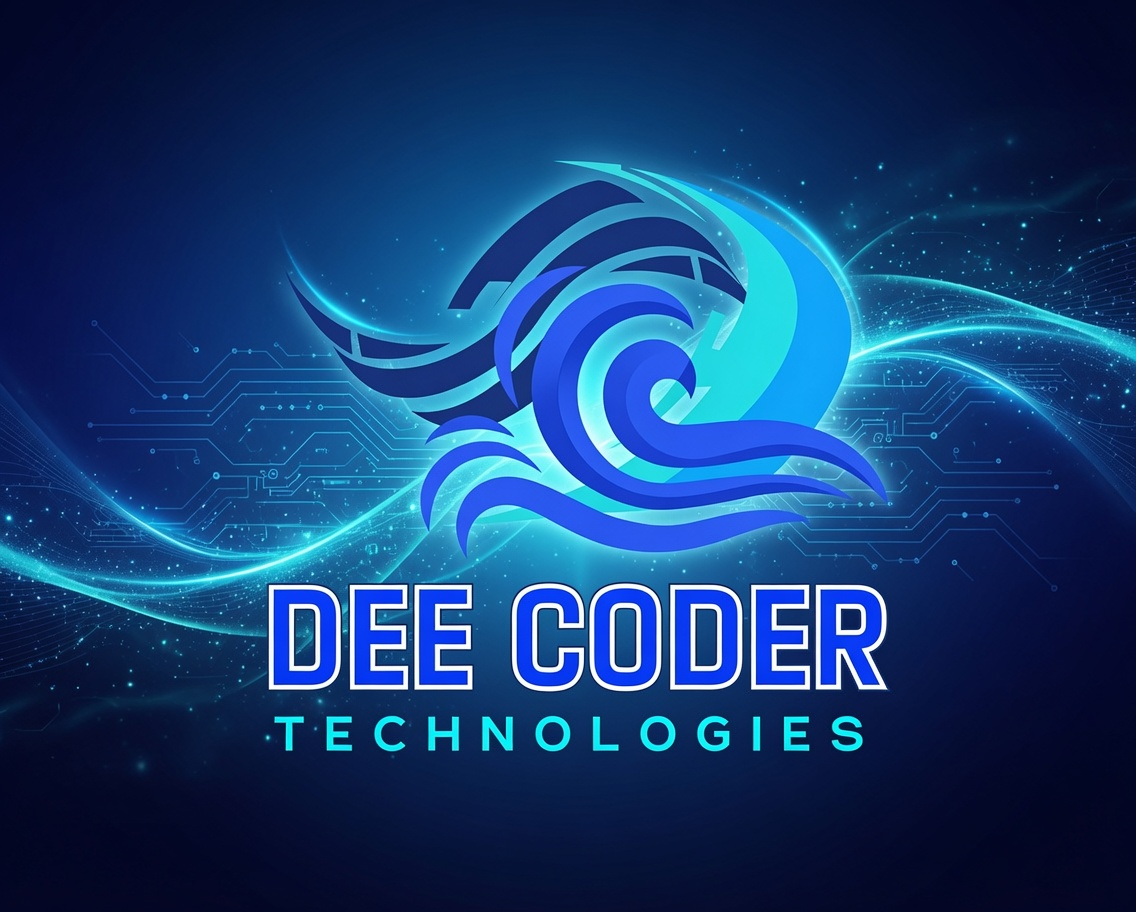
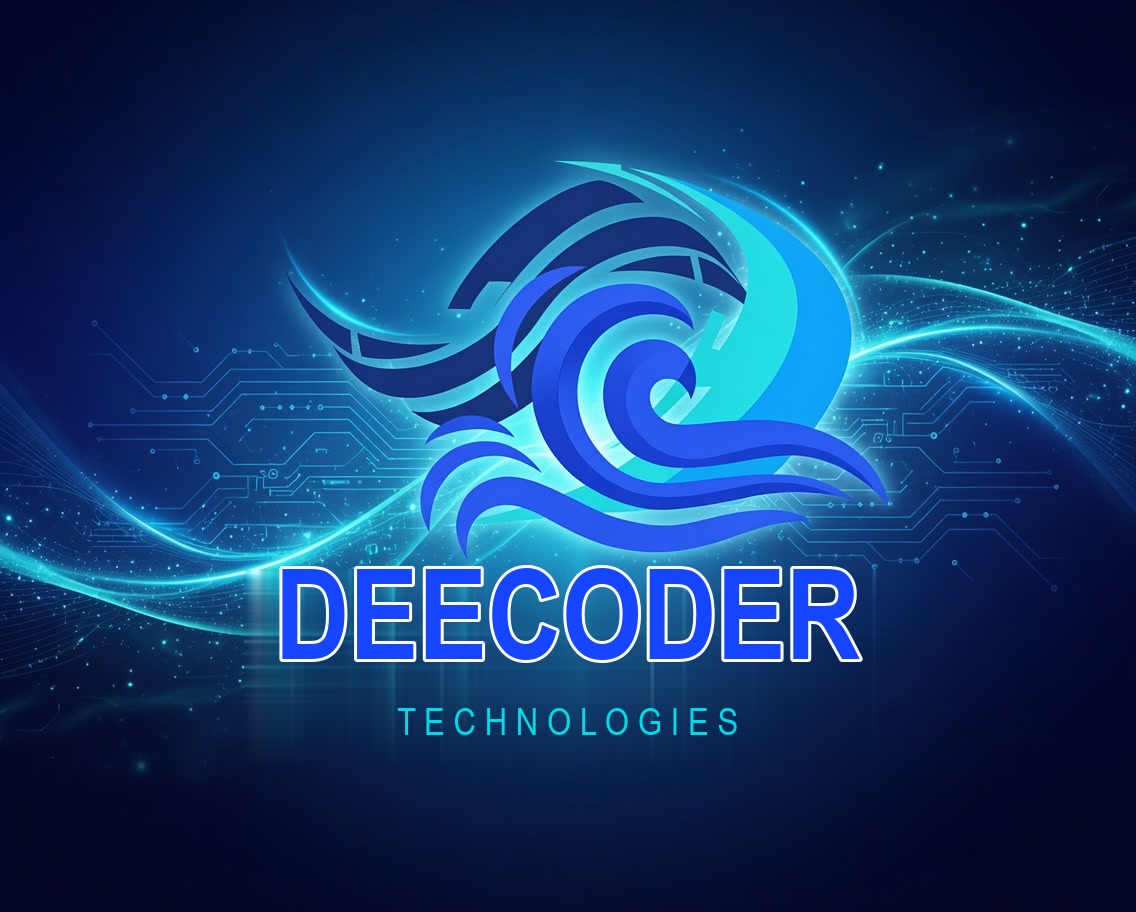
Initial commit of my websites

Changed region(s): [[0.2157, 0.614, 0.8011, 0.8289]]

diff --git a/templates/terms.html b/templates/terms.html
@@ -1,6 +1,6 @@
 {% extends "base.html" %}
 {% block title %}Terms of Service | {{ company_name }}{% endblock %}
-{% block description %}Terms governing access to and use of the Dee Coder Technologies website and its services.{% endblock %}
+{% block description %}Terms governing access to and use of the DeeCoder Technologies website and its services.{% endblock %}
 {% block content %}
 <main class="legal-page">
     <div class="container">
@@ -11,7 +11,7 @@
         </header>
 
         <article class="legal-content">
-            <p>These Terms of Service apply to your access to and use of the Dee Coder Technologies website, including its pages, content, contact form, newsletter, and any services or products described here (together, the “Website”). By using the Website, you agree to these terms. If you do not agree, please do not use it.</p>
+            <p>These Terms of Service apply to your access to and use of the DeeCoder Technologies website, including its pages, content, contact form, newsletter, and any services or products described here (together, the “Website”). By using the Website, you agree to these terms. If you do not agree, please do not use it.</p>
 
             <section>
                 <h2>1. Website Use and Acceptable Use</h2>
@@ -25,7 +25,7 @@
 
             <section>
                 <h2>3. Intellectual Property and Copyright</h2>
-                <p>Unless otherwise stated, the Website's text, design, graphics, and other materials are owned by Dee Coder Technologies or used with permission and are protected by applicable intellectual-property laws. You may view and use them for ordinary, non-commercial browsing. You may not copy, republish, distribute, modify, or commercially exploit Website materials without prior permission, except where the law permits.</p>
+                <p>Unless otherwise stated, the Website's text, design, graphics, and other materials are owned by DeeCoder Technologies or used with permission and are protected by applicable intellectual-property laws. You may view and use them for ordinary, non-commercial browsing. You may not copy, republish, distribute, modify, or commercially exploit Website materials without prior permission, except where the law permits.</p>
                 <p>Third-party names, marks, and materials remain the property of their respective owners. If you believe material on the Website infringes your rights, contact us using the details below with enough information for us to identify it.</p>
             </section>
 
@@ -42,7 +42,7 @@
 
             <section>
                 <h2>6. Limitation of Liability</h2>
-                <p>To the extent permitted by applicable law, the Website and its content are provided “as is” and “as available,” without warranties that the Website will be uninterrupted, error-free, or suitable for a particular purpose. Dee Coder Technologies will not be liable for indirect, incidental, special, or consequential loss arising from your use of, or inability to use, the Website. Nothing in these terms excludes liability that cannot lawfully be excluded.</p>
+                <p>To the extent permitted by applicable law, the Website and its content are provided “as is” and “as available,” without warranties that the Website will be uninterrupted, error-free, or suitable for a particular purpose. DeeCoder Technologies will not be liable for indirect, incidental, special, or consequential loss arising from your use of, or inability to use, the Website. Nothing in these terms excludes liability that cannot lawfully be excluded.</p>
             </section>
 
             <section>
@@ -67,7 +67,7 @@
 
             <section>
                 <h2>11. Contact</h2>
-                <p>For questions about these terms, contact Dee Coder Technologies at <a href="mailto:deecodertechnologiesworldwide@gmail.com">deecodertechnologiesworldwide@gmail.com</a>, use the <a href="{{ url_for('public.home') }}#contact">website contact form</a>, or message us on <a href="https://wa.me/2348075346224" target="_blank" rel="noopener">WhatsApp at +234 807 534 6224</a>.</p>
+                <p>For questions about these terms, contact DeeCoder Technologies at <a href="mailto:deecodertechnologiesworldwide@gmail.com">deecodertechnologiesworldwide@gmail.com</a>, use the <a href="{{ url_for('public.home') }}#contact">website contact form</a>, or message us on <a href="https://wa.me/2348075346224" target="_blank" rel="noopener">WhatsApp at +234 807 534 6224</a>.</p>
             </section>
         </article>
     </div>

diff --git a/templates/base.html b/templates/base.html
@@ -3,8 +3,8 @@
 <head>
     <meta charset="UTF-8">
     <meta name="viewport" content="width=device-width, initial-scale=1.0">
-    <title>{% block title %}{{ company_name }} | Innovative Tech Solutions{% endblock %}</title>
-    <meta name="description" content="{% block description %}Dee Coder Technologies builds high-performance web applications, cybersecurity solutions, and scalable digital products. Engineering the digital future.{% endblock %}">
+    <title>{% block title %}DeeCoder Technologies | Innovative Tech Solutions{% endblock %}</title>
+    <meta name="description" content="{% block description %}DeeCoder Technologies builds high-performance web applications, cybersecurity solutions, and scalable digital products. Engineering the digital future.{% endblock %}">
     <meta name="keywords" content="web development, cybersecurity, UI/UX design, front-end, React, code review">
     <link href="https://cdn.jsdelivr.net/npm/remixicon@3.5.0/fonts/remixicon.css" rel="stylesheet">
     <link rel="stylesheet" href="{{ url_for('static', filename='css/newadd.css') }}">
@@ -27,8 +27,8 @@
 
     <nav class="nav">
         <a href="{{ url_for('public.home') }}" class="nav-brand">
-            <img src="{{ url_for('static', filename='images/g6jYI.jpg') }}" alt="Dee Coder">
-            Dee <span>Coder</span>
+            <img src="{{ url_for('static', filename='images/g6jYI.jpg') }}" alt="DeeCoder Technologies">
+            Dee<span>Coder</span>
         </a>
         <button class="menu-btn" id="menuBtn" aria-label="Toggle menu">
             <span></span><span></span><span></span>
@@ -52,7 +52,7 @@
         <div class="container">
             <div class="footer-top">
                 <div class="footer-brand">
-                    <h3>Dee <span>Coder</span> Technologies</h3>
+                    <h3>Dee<span>Coder</span> Technologies</h3>
                     <p>Front-end developer building clean, responsive websites and providing professional code reviews.</p>
                     <div class="socials">
                         <a href="https://github.com/deecoderfrontenddevnationwilde-ux" target="_blank" aria-label="GitHub"><i class="ri-github-fill"></i></a>
@@ -93,7 +93,7 @@
                 </div>
             </div>
             <div class="footer-bottom">
-                <p>&copy;2023 - 2026 Dee Coder Technologies. Built with care · All rights reserved. · <a href="{{ url_for('admin.login') }}" style="color:inherit;">Admin</a></p>
+                <p>&copy;2023 - 2026 DeeCoder Technologies. Built with care · All rights reserved. · <a href="{{ url_for('admin.login') }}" style="color:inherit;">Admin</a></p>
             </div>
         </div>
     </footer>

diff --git a/templates/index.html b/templates/index.html
@@ -16,7 +16,7 @@
                     </div>
                 </div>
                 <div class="hero-visual">
-                    <img src="{{ url_for('static', filename='images/g6jYI.jpg') }}" alt="Dee Coder Technologies">
+                    <img src="{{ url_for('static', filename='images/g6jYI.jpg') }}" alt="DeeCoder Technologies">
                 </div>
             </div>
         </div>
@@ -101,7 +101,7 @@
                 <p>How I approach every project.</p>
             </div>
             <div class="bio-card reveal">
-                <p>Operating under the professional banner Dee Coder, I specialize in crafting clean, high-fidelity, and responsive user interfaces. Combining a keen eye for minimalist design aesthetics with a strong structural foundation in HTML5 and CSS, I transform creative concepts into sharp, functional web layouts.</p>
+                <p>Operating under the professional banner DeeCoder Technologies, I specialize in crafting clean, high-fidelity, and responsive user interfaces. Combining a keen eye for minimalist design aesthetics with a strong structural foundation in HTML5 and CSS, I transform creative concepts into sharp, functional web layouts.</p>
                 <p>My focus is on writing semantic code and building seamless, pixel-perfect digital experiences that bridge the gap between form and function.</p>
             </div>
         </div>
@@ -441,7 +441,7 @@
         <div class="container">
             <div class="section-head">
                 <h2>Product <span>Video Previews</span></h2>
-                <p>Watch a closer look at products available from Dee Coder Technologies.</p>
+                <p>Watch a closer look at products available from DeeCoder Technologies.</p>
             </div>
             {% if product_videos %}
             <div class="projects-grid product-video-grid">
@@ -508,7 +508,7 @@
             <div class="testimonials-grid">
                 <div class="testimonial-card reveal">
                     <div class="stars">★★★★★</div>
-                    <p>Dee Coder delivered a clean, modern site on time. Clear communication and code that was easy to hand off to our team.</p>
+                    <p>DeeCoder Technologies delivered a clean, modern site on time. Clear communication and code that was easy to hand off to our team.</p>
                     <div class="testimonial-author">
                         <div class="author-avatar">AM</div>
                         <div class="author-info">

diff --git a/templates/privacy.html b/templates/privacy.html
@@ -1,6 +1,6 @@
 {% extends "base.html" %}
 {% block title %}Privacy Policy | {{ company_name }}{% endblock %}
-{% block description %}How Dee Coder Technologies collects, uses, and shares information, including in connection with Google advertising services.{% endblock %}
+{% block description %}How DeeCoder Technologies collects, uses, and shares information, including in connection with Google advertising services.{% endblock %}
 {% block content %}
 <main class="legal-page">
     <div class="container">
@@ -11,7 +11,7 @@
         </header>
 
         <article class="legal-content">
-            <p>This Privacy Policy explains how Dee Coder Technologies (“we,” “us,” or “our”) handles information when you visit this Website, contact us, subscribe to updates, or view advertising if it is enabled here. It also explains how Google advertising services, including Google Ad Manager, and other advertising partners may process information if configured on the Website.</p>
+            <p>This Privacy Policy explains how DeeCoder Technologies (“we,” “us,” or “our”) handles information when you visit this Website, contact us, subscribe to updates, or view advertising if it is enabled here. It also explains how Google advertising services, including Google Ad Manager, and other advertising partners may process information if configured on the Website.</p>
 
             <section>
                 <h2>1. Information We Collect</h2>
@@ -97,7 +97,7 @@
 
             <section>
                 <h2>16. Contact</h2>
-                <p>For privacy questions or requests, contact Dee Coder Technologies at <a href="mailto:deecodertechnologiesworldwide@gmail.com">deecodertechnologiesworldwide@gmail.com</a>, use the <a href="{{ url_for('public.home') }}#contact">website contact form</a>, or message us on <a href="https://wa.me/2348075346224" target="_blank" rel="noopener">WhatsApp at +234 807 534 6224</a>. Our published location is Lagos, Nigeria.</p>
+                <p>For privacy questions or requests, contact DeeCoder Technologies at <a href="mailto:deecodertechnologiesworldwide@gmail.com">deecodertechnologiesworldwide@gmail.com</a>, use the <a href="{{ url_for('public.home') }}#contact">website contact form</a>, or message us on <a href="https://wa.me/2348075346224" target="_blank" rel="noopener">WhatsApp at +234 807 534 6224</a>. Our published location is Lagos, Nigeria.</p>
             </section>
         </article>
     </div>

diff --git a/templates/videos.html b/templates/videos.html
@@ -5,7 +5,7 @@
     <div class="container">
         <div class="section-head">
             <h2>Product <span>Video Previews</span></h2>
-            <p>Explore the full video collection from Dee Coder Technologies.</p>
+            <p>Explore the full video collection from DeeCoder Technologies.</p>
         </div>
     </div>
 </header>

diff --git a/test_deployment_health.py b/test_deployment_health.py
@@ -64,6 +64,10 @@ class DeploymentHealthTests(unittest.TestCase):
     def test_public_pages_and_empty_admin_video_sections_load(self):
         homepage = self.client.get("/")
         self.assertEqual(homepage.status_code, 200)
+        self.assertIn(
+            b"<title>DeeCoder Technologies | Innovative Tech Solutions</title>",
+            homepage.data,
+        )
 
         self.assertEqual(self.client.get("/admin/dashboard").status_code, 302)
         self.assertEqual(self.client.get("/admin/videos").status_code, 302)

diff --git a/config.py b/config.py
@@ -65,7 +65,7 @@ class Config:
     SQLALCHEMY_TRACK_MODIFICATIONS = False
 
     # --- Company / site info (used in emails & templates) ---
-    COMPANY_NAME = os.environ.get("COMPANY_NAME", "Dee Coder Technologies")
+    COMPANY_NAME = "DeeCoder Technologies"
     SITE_URL = os.environ.get("SITE_URL", "http://127.0.0.1:5000")
 
     # --- Email (Gmail SMTP) ---

diff --git a/PYTHONANYWHERE_DEPLOYMENT.md b/PYTHONANYWHERE_DEPLOYMENT.md
@@ -38,7 +38,7 @@ FLASK_DEBUG=0
 
 DATABASE_URL=sqlite:////home/YOUR_USERNAME/company_website/instance/company.db
 
-COMPANY_NAME=Dee Coder Technologies
+COMPANY_NAME=DeeCoder Technologies
 SITE_URL=https://YOUR_USERNAME.pythonanywhere.com
 
 GMAIL_ADDRESS=your-email@gmail.com

diff --git a/README.md b/README.md
@@ -1,4 +1,4 @@
-# Dee Coder Technologies — Full-Stack Website
+# DeeCoder Technologies — Full-Stack Website
 
 Your original HTML/CSS front end, now backed by a real Flask + SQLAlchemy
 application: dynamic News and Products, a newsletter, a moderated contact
